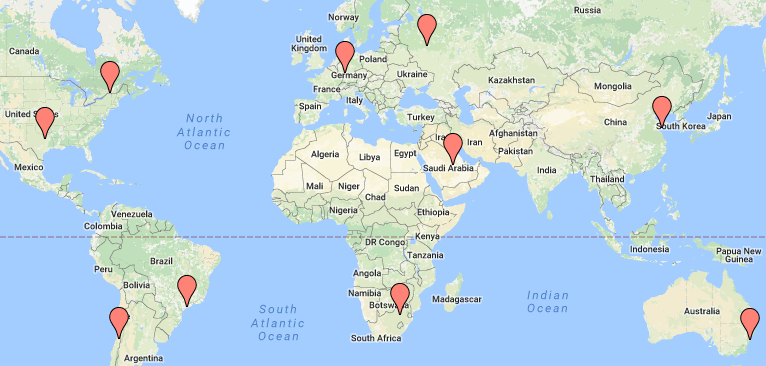
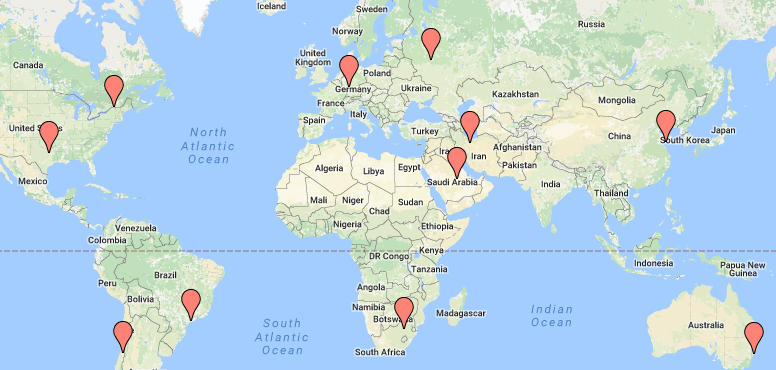
New DDNet Persian server

diff --git a/www/index.php b/www/index.php
@@ -21,7 +21,7 @@ menu: |
 <div class="block">
 <h2>DDRace Servers and much more!</h2>
 <p>
-DDraceNetwork (DDNet) is an actively maintained version of DDRace, a <a href="https://www.teeworlds.com/">Teeworlds</a> modification with a unique cooperative gameplay. Help each other play through <a href="/releases/">custom maps</a> with up to 64 players, compete against the best in <a href="/tournaments/">international tournaments</a>, design your <a href="/howto/">own maps</a>, or run your <a href="/settingscommands/">own server</a>. The <a href="/status/">official servers</a> are located in Germany, Russia, USA, Canada, China, Chile, Brazil, South Africa, Saudi Arabia and Australia. All <a href="/ranks/">ranks</a> made on official servers are available worldwide and you can <a href="/players/milk">collect points</a>!
+DDraceNetwork (DDNet) is an actively maintained version of DDRace, a <a href="https://www.teeworlds.com/">Teeworlds</a> modification with a unique cooperative gameplay. Help each other play through <a href="/releases/">custom maps</a> with up to 64 players, compete against the best in <a href="/tournaments/">international tournaments</a>, design your <a href="/howto/">own maps</a>, or run your <a href="/settingscommands/">own server</a>. The <a href="/status/">official servers</a> are located in Germany, Russia, USA, Canada, China, Chile, Brazil, South Africa, Iran, Saudi Arabia and Australia. All <a href="/ranks/">ranks</a> made on official servers are available worldwide and you can <a href="/players/milk">collect points</a>!
 </p>
 <div class="startvideo"><div class="video-container">
   <div class="ytplayer" data-id="jTP-Oz05IN4"></div>
